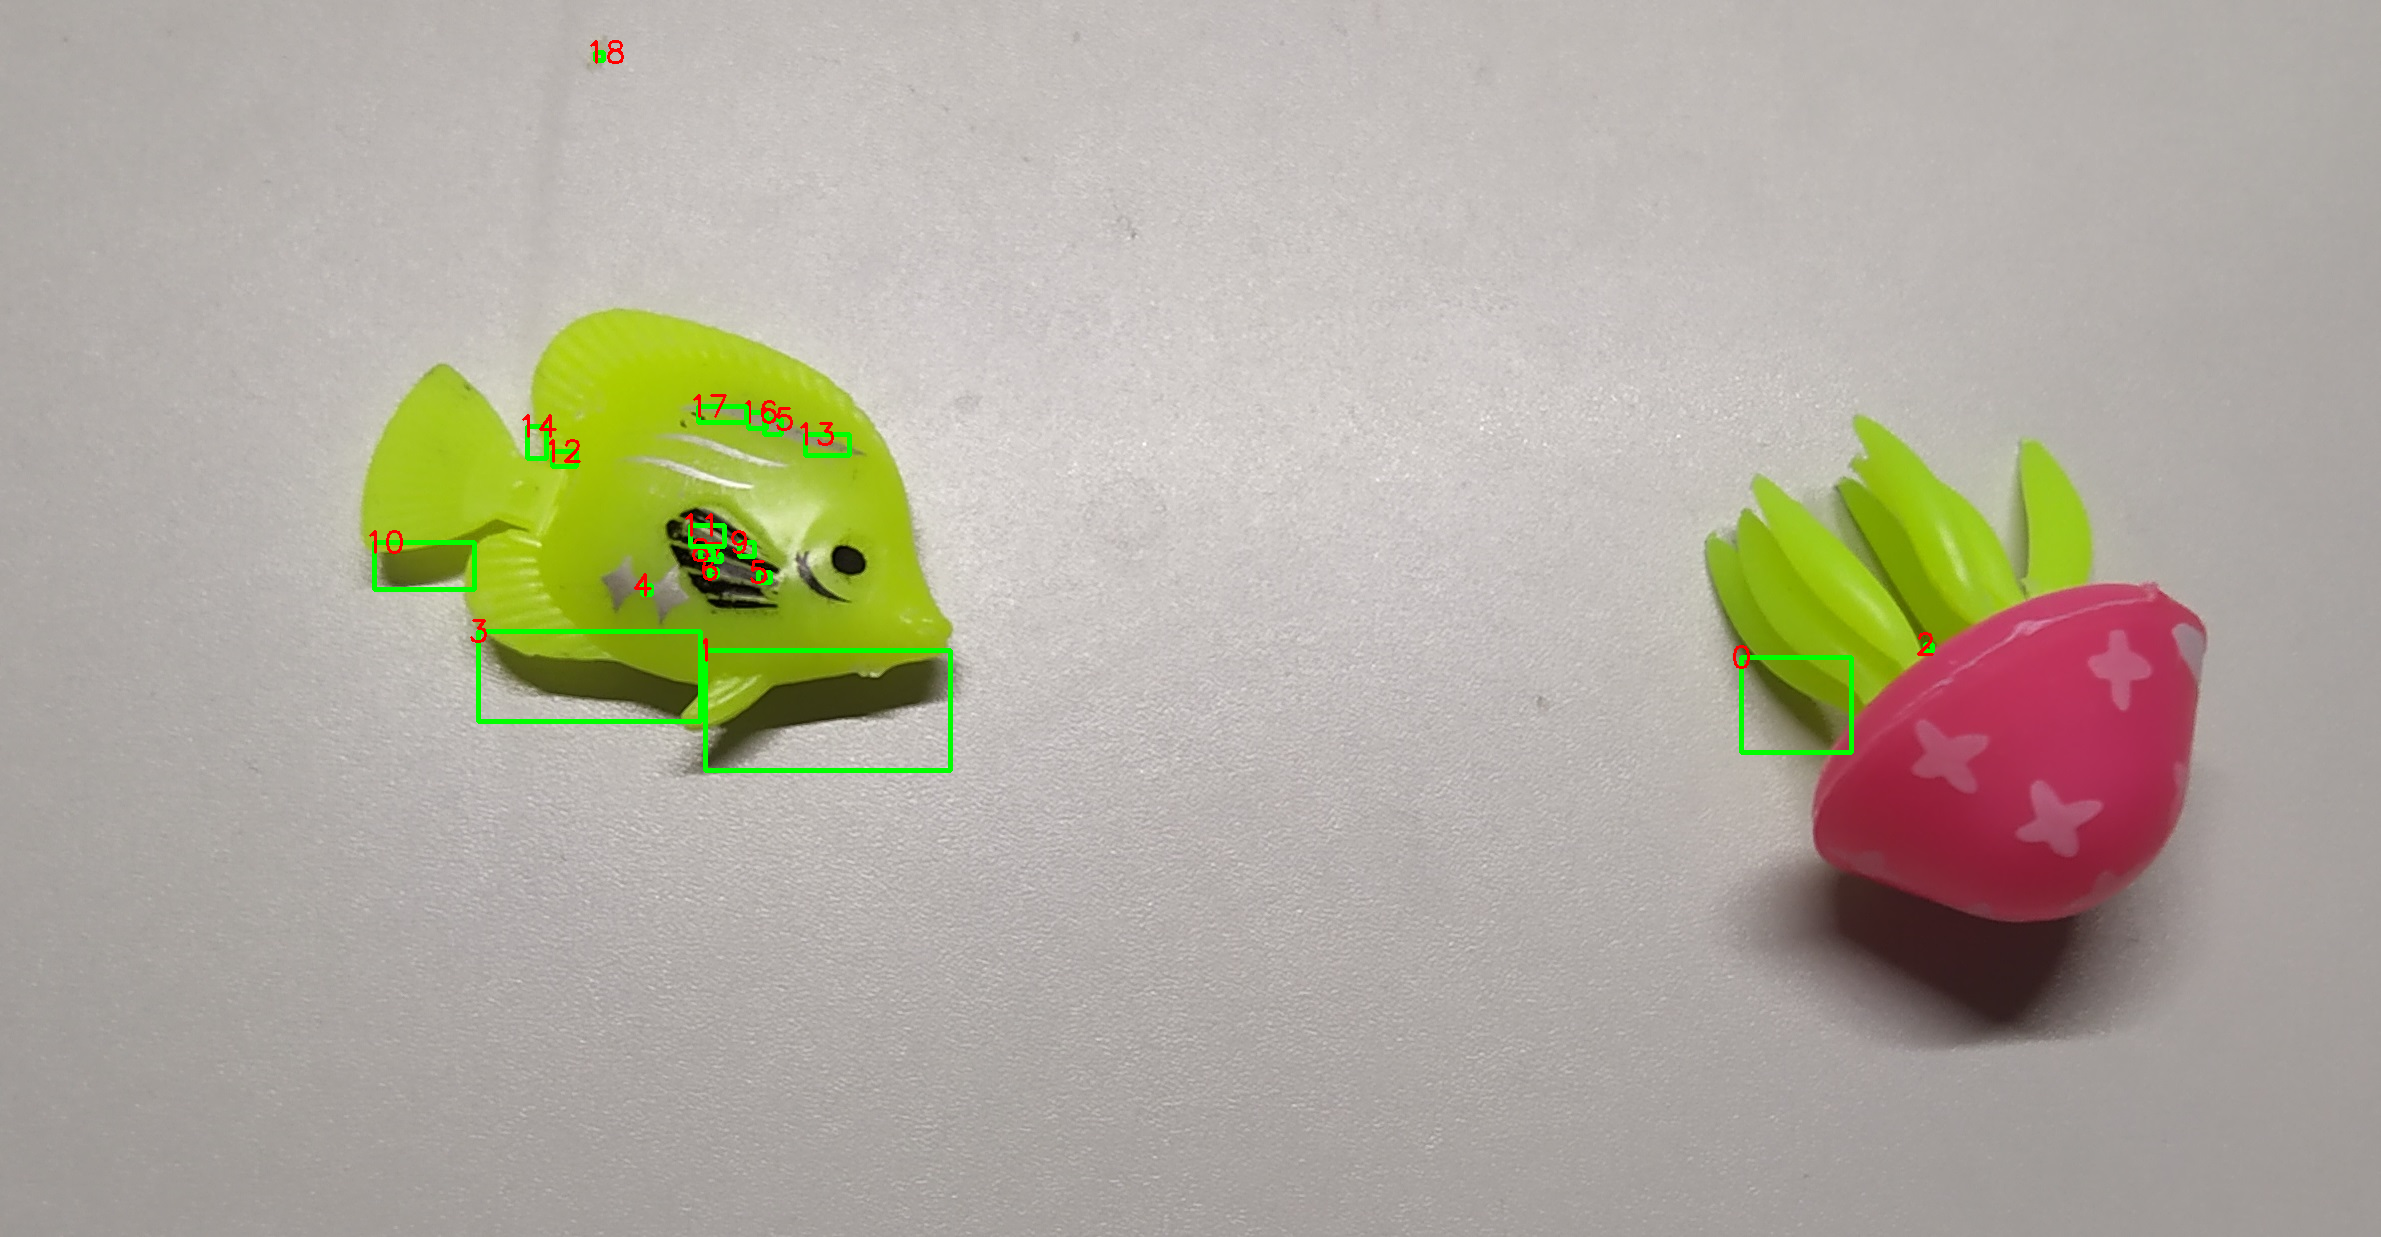
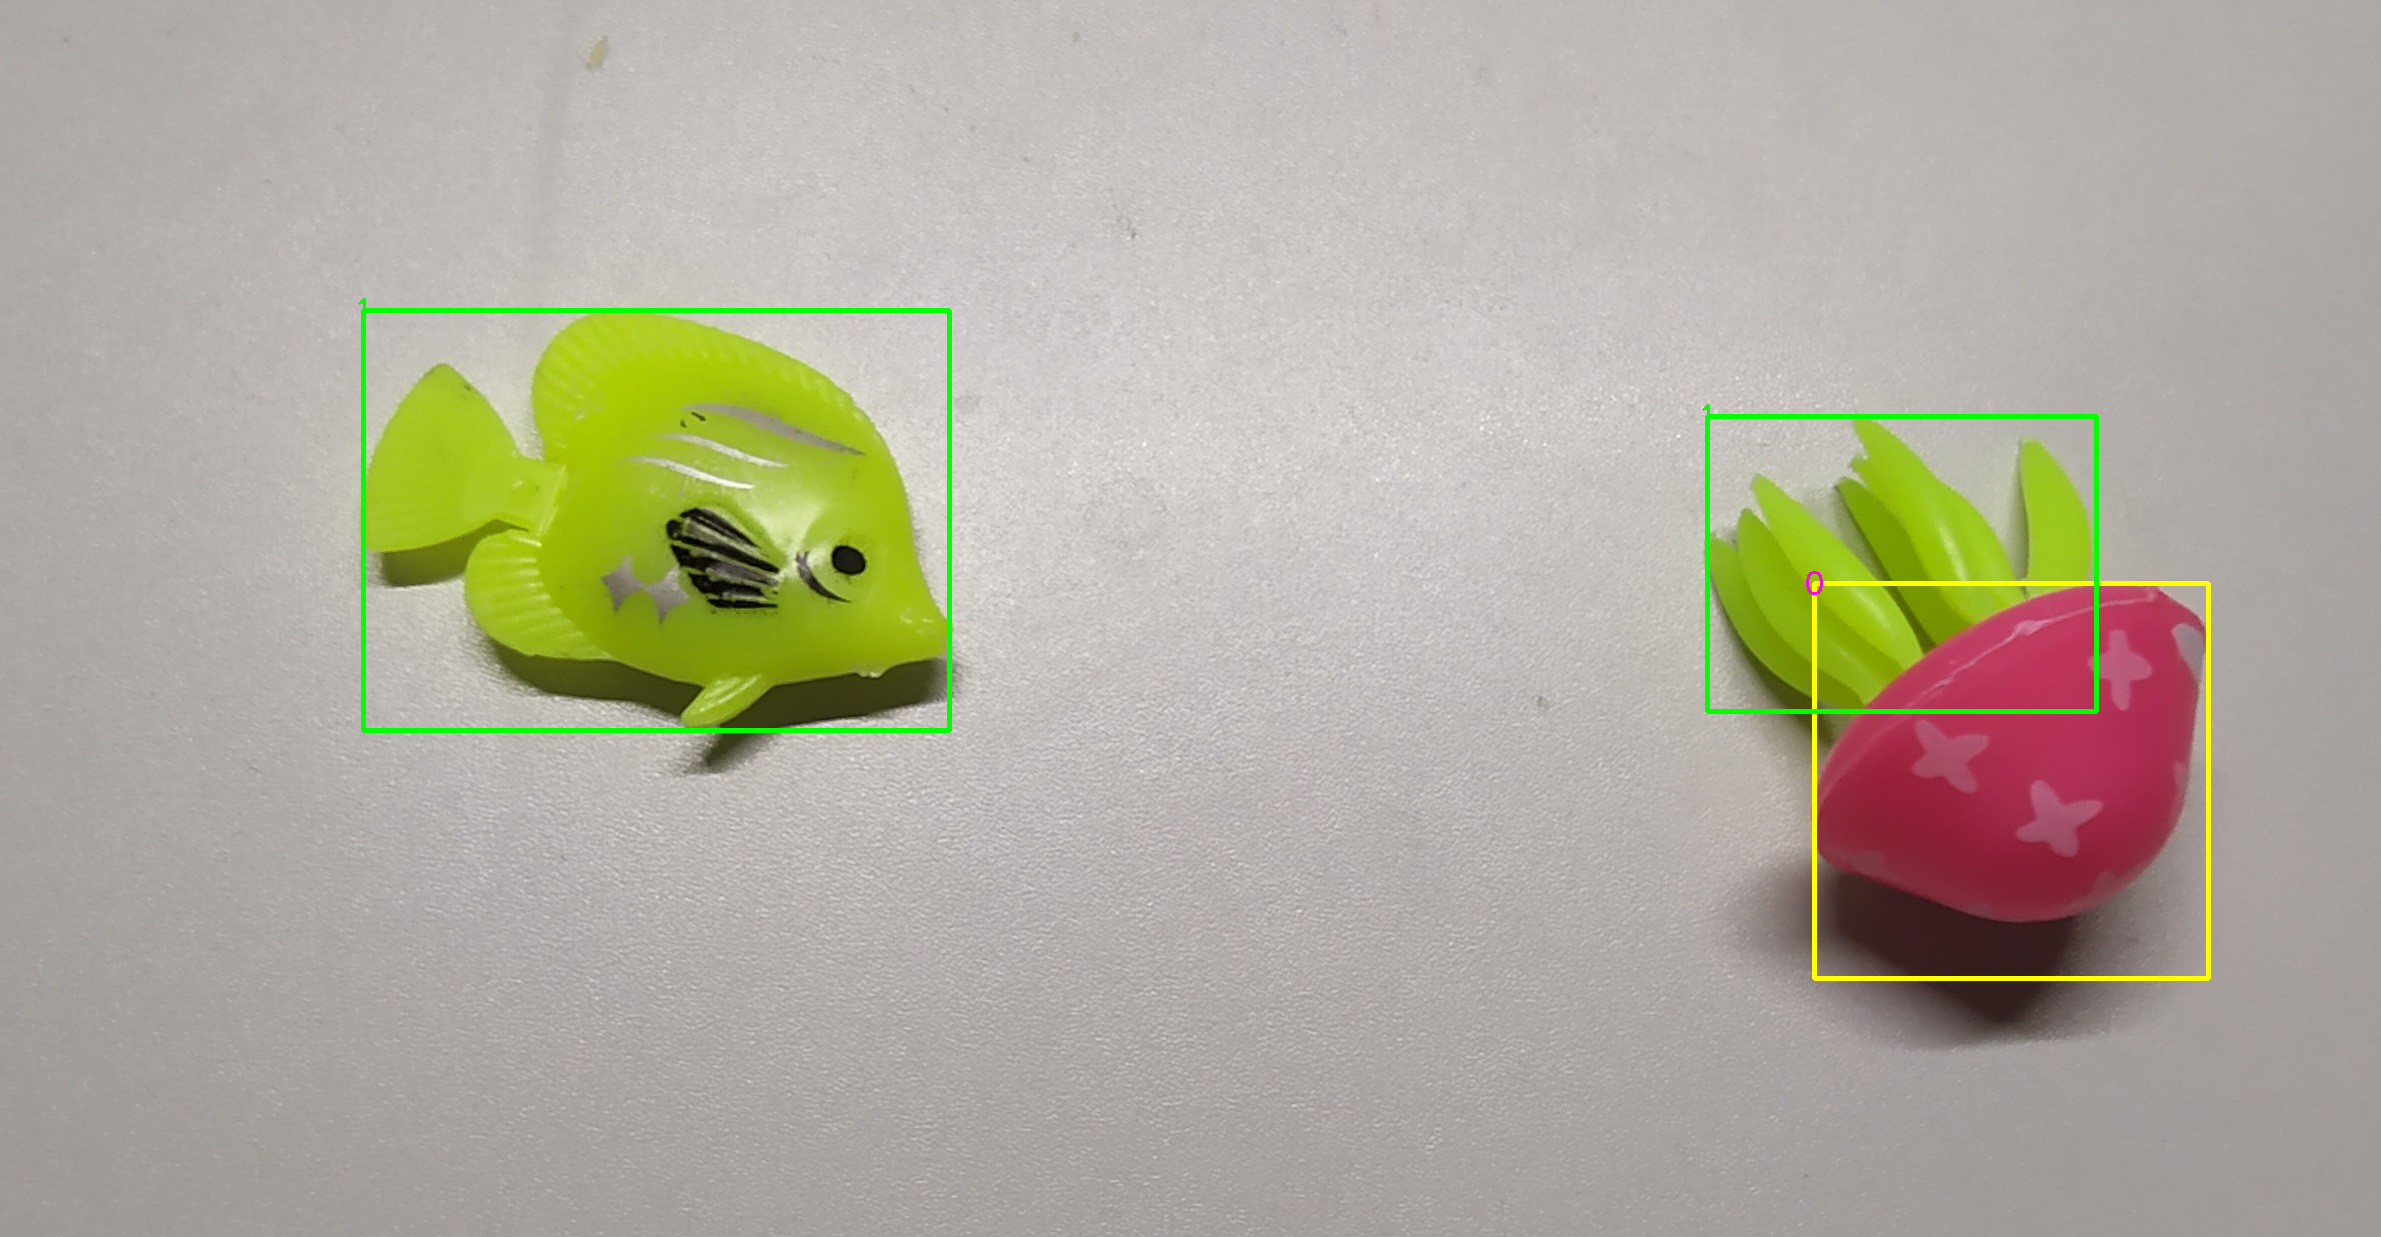
6666

diff --git a/图像识别/颜色识别/rgb_try.py b/图像识别/颜色识别/rgb_try.py
@@ -15,32 +15,56 @@ if __name__ == '__main__':
         下面两个值是要识别的颜色范围
         '''
         # Lower = np.array([20, 20, 20])  # 要识别颜色的下限
-        Lower = np.array([26, 43, 46])  # 要识别颜色的下限
+        Lower = np.array([156,43,46])  # 要识别颜色的下限
         # Upper = np.array([30, 255, 255])  # 要识别的颜色的上限
-        Upper = np.array([34, 255, 255])  # 要识别的颜色的上限
+        Upper = np.array([180, 255, 255])  # 要识别的颜色的上限
+        # Lower = np.array([20, 20, 20])  # 要识别颜色的下限
+        Lower1 = np.array([35,43,46])  # 要识别颜色的下限
+        # Upper = np.array([30, 255, 255])  # 要识别的颜色的上限
+        Upper1 = np.array([77, 255, 255])  # 要识别的颜色的上限
         # mask是把HSV图片中在颜色范围内的区域变成白色，其他区域变成黑色
         mask = cv2.inRange(HSV, Lower, Upper)
+        mask1 = cv2.inRange(HSV, Lower1, Upper1)
         # 下面四行是用卷积进行滤波
         erosion = cv2.erode(mask, kernel_4, iterations=1)
         erosion = cv2.erode(erosion, kernel_4, iterations=1)
         dilation = cv2.dilate(erosion, kernel_4, iterations=1)
         dilation = cv2.dilate(dilation, kernel_4, iterations=1)
+        erosion1 = cv2.erode(mask1, kernel_4, iterations=1)
+        erosion1 = cv2.erode(erosion1, kernel_4, iterations=1)
+        dilation1 = cv2.dilate(erosion1, kernel_4, iterations=1)
+        dilation1 = cv2.dilate(dilation1, kernel_4, iterations=1)
         # target是把原图中的非目标颜色区域去掉剩下的图像
         target = cv2.bitwise_and(Img, Img, mask=dilation)
         # 将滤波后的图像变成二值图像放在binary中
         ret, binary = cv2.threshold(dilation, 127, 255, cv2.THRESH_BINARY)
         # 在binary中发现轮廓，轮廓按照面积从小到大排列
         contours, hierarchy = cv2.findContours(binary, cv2.RETR_EXTERNAL, cv2.CHAIN_APPROX_SIMPLE)
+        # 将滤波后的图像变成二值图像放在binary中
+        ret1,binary1 = cv2.threshold(dilation1, 127, 255, cv2.THRESH_BINARY)
+        # 在binary中发现轮廓，轮廓按照面积从小到大排列
+        contours1,hierarchy1= cv2.findContours(binary1, cv2.RETR_EXTERNAL, cv2.CHAIN_APPROX_SIMPLE)
         p = 0
         for i in contours:  # 遍历所有的轮廓
             x, y, w, h = cv2.boundingRect(i)  # 将轮廓分解为识别对象的左上角坐标和宽、高
             # 在图像上画上矩形（图片、左上角坐标、右下角坐标、颜色、线条宽度）
-            cv2.rectangle(Img, (x, y), (x + w, y + h), (0, 255,), 3)
-            # 给识别对象写上标号
-            font = cv2.FONT_HERSHEY_SIMPLEX
-            cv2.putText(Img, str(p), (x - 10, y + 10), font, 1, (0, 0, 255), 2)  # 加减10是调整字符位置
-            p += 1
+            if(w>30and h>30):
+                cv2.rectangle(Img, (x, y), (x + w, y + h), (0, 255,255), 3)
+                # 给识别对象写上标号
+                print(w,h)
+                font = cv2.FONT_HERSHEY_SIMPLEX
+                cv2.putText(Img, str(p), (x - 10, y + 10), font, 1, (255, 0, 255), 2)  # 加减10是调整字符位置
+                p += 1
         print('黄色方块的数量是', p, '个')  # 终端输出目标数量
+        for i in contours1:  # 遍历所有的轮廓
+            x, y, w, h = cv2.boundingRect(i)  # 将轮廓分解为识别对象的左上角坐标和宽、高
+            # 在图像上画上矩形（图片、左上角坐标、右下角坐标、颜色、线条宽度）
+
+            if(w>30and h>30):
+                cv2.rectangle(Img, (x, y), (x + w, y + h), (0, 255,), 3)
+                # 给识别对象写上标号
+                font = cv2.FONT_HERSHEY_SIMPLEX
+                cv2.putText(Img, str(p), (x - 10, y + 10), font, 1, (0, 255, 0), 2)  # 加减10是调整字符位置
         cv2.imshow('target', target)
         cv2.imshow('Mask', mask)
         cv2.imshow("prod", dilation)

diff --git a/图像识别/颜色识别/My_test.py b/图像识别/颜色识别/My_test.py
@@ -1,0 +1,52 @@
+my_color_Hmin=[0,11,26,35,78,100,125]
+my_color_Hmax=[10,25,34,77,99,124,155]
+def color_judge(H,S,V):
+    result=[]
+    if(V>=46 and S>=43):
+        if(H>=my_color_Hmin[0] and H<=my_color_Hmax[0]):
+            result=[my_color_Hmin[0],my_color_Hmax[0],43,255,46,255,'Red']
+        elif(H>=my_color_Hmin[1] and H<=my_color_Hmax[1]):
+            result=[my_color_Hmin[1],my_color_Hmax[1],43,255,46,255,'Ori']
+        elif(H>=my_color_Hmin[2] and H<=my_color_Hmax[2]):
+            result=[my_color_Hmin[2],my_color_Hmax[2],43,255,46,255,'Yel']
+        elif(H>=my_color_Hmin[3] and H<=my_color_Hmax[3]):
+            result=[my_color_Hmin[3],my_color_Hmax[3],43,255,46,255,'Gre']
+        elif(H>=my_color_Hmin[4] and H<=my_color_Hmax[4]):
+            result=[my_color_Hmin[4],my_color_Hmax[4],43,255,46,255,'Cya']
+        elif(H>=my_color_Hmin[5] and H<=my_color_Hmax[5]):
+            result=[my_color_Hmin[5],my_color_Hmax[5],43,255,46,255,'Blu']
+        elif(H>=my_color_Hmin[6] and H<=my_color_Hmax[6]):
+            result=[my_color_Hmin[6],my_color_Hmax[6],43,255,46,255,'Pur']
+    elif(S<43 and V>=46 and V<=220):
+        result=[0,180,0,43,46,220,'Gra']
+    elif(S<30 and V>=221 and V<=25):
+        result=[0,180,0,30,221,255,'Whi']
+    elif(V<46):
+        result[0,180,0,255,0,45,'Bla']
+    print(result)
+def rgb_tran_hsv(R,G,B):
+    R_=R/255
+    G_=G/255
+    B_=B/255
+    H=0
+    S=0
+    Cmax=max(R_,G_,B_)
+    Cmin=min(R_,G_,B_)
+    difference = Cmax-Cmin
+    if(difference==0):
+        H=0;
+    elif(Cmax==R_):
+        H=int(30*(G_-B_)/difference)
+    elif(Cmax==G_):
+        H=int(30*((B_-R_)/difference+2))
+    elif(Cmax==B_):
+        H=int(30*((R_-G_)/difference+4))
+    if(Cmax==0):
+        S=0
+    else:
+        S=int(255*difference/Cmax)
+    V=int(Cmax*255)
+    a=[H,S,V]
+    print(a)
+    return a
+color_judge(rgb_tran_hsv(150,200,250)[0],rgb_tran_hsv(150,200,250)[1],rgb_tran_hsv(150,200,250)[2])
